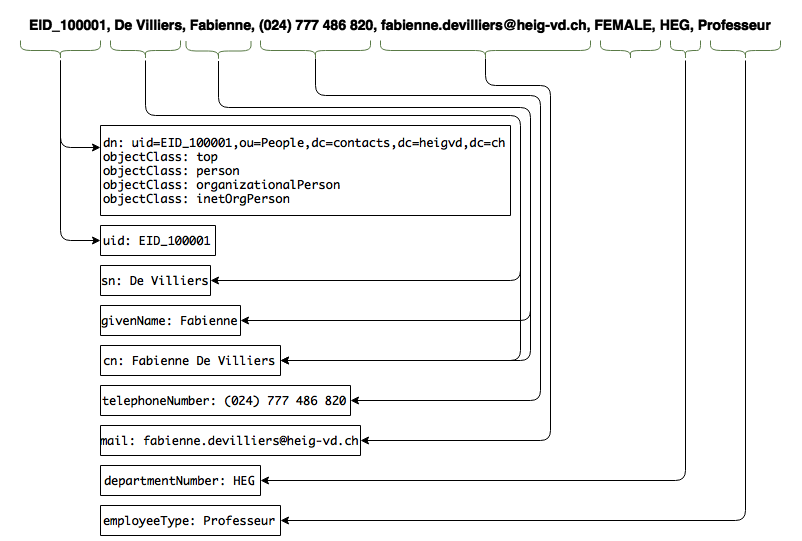
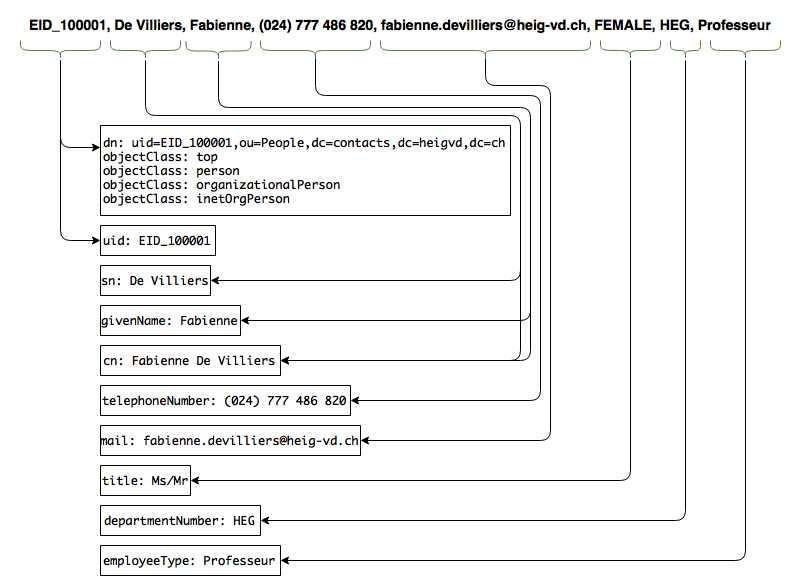
image and parser updated

Changed region(s): [[0.0312, 0.0296, 0.9663, 1.0]]

diff --git a/LdapDataGenerator/LDAPParser.py b/LdapDataGenerator/LDAPParser.py
@@ -81,7 +81,10 @@ for line in input:
         p("cn", s[2] + " " + s[1])
         p("telephoneNumber", s[3])
         p("mail", s[4])
-        # s[5]?
+        if "FEMALE" in s[5]:
+            p("title","Ms")
+        else:
+            p("title","Mr")
         p("departmentNumber", s[6])
         p("employeeType", s[7])
         dpts.add(s[6])
